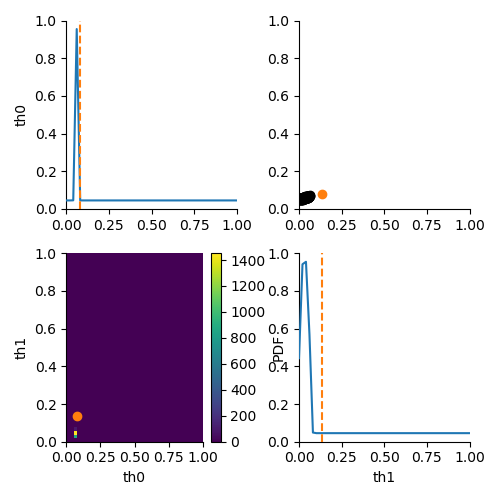
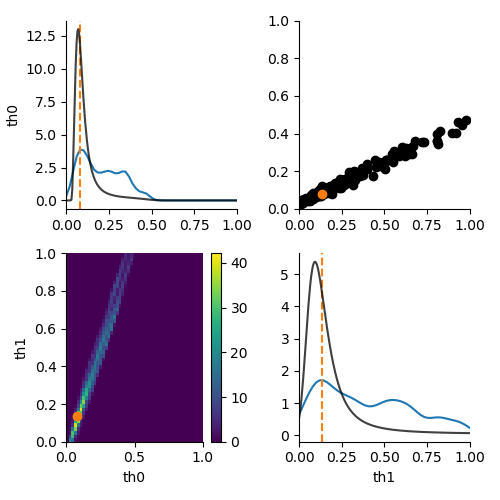
cr: also marg2 (viz can be improved)

diff --git a/conversion_reaction/models.py b/conversion_reaction/models.py
@@ -10,13 +10,13 @@ import scipy.integrate as integrate
 # VARIABLES
 
 # noise variance
-noise = 0.1
+noise = 0.2
 # gaussian error model
 noise_model = np.random.randn
 
 # prior
 prior_lb = 0
-prior_ub = 1
+prior_ub = 0.5
 prior = pyabc.Distribution(**{key: pyabc.RV('uniform', prior_lb, prior_ub - prior_lb)
                               for key in ['th0', 'th1']})
 
@@ -192,35 +192,47 @@ def pdf_true(p):
 
 # VISUALIZATION
 
+def for_plot_pdf_true():
+    for_plot_pdf_true_file = "for_plot_pdf_true.dat"
+    try:
+        xs_0, ys_0, xs_1, ys_1, zs = pickle.load(open(for_plot_pdf_true_file, 'rb'))
+    except Exception as e:
+        print(e)
+        n_mesh = 200
+        # th0
+        def marginal_0(th0):
+            return integrate.quad(lambda th1: pdf_true({'th0': th0, 'th1': th1}),
+                                  prior_lb, prior_ub)[0]
+        integral_0 = integrate.quad(marginal_0, prior_lb, prior_ub)[0]
+        xs_0 = np.linspace(prior_lb, prior_ub, n_mesh)
+        ys_0 = []
+        for x in xs_0:
+            ys_0.append(marginal_0(x) / integral_0)
+    
+        # th1
+        def marginal_1(th1):
+            return integrate.quad(lambda th0: pdf_true({'th0': th0, 'th1': th1}),
+                                  prior_lb, prior_ub)[0]
+        integral_1 = integrate.quad(marginal_1, prior_lb, prior_ub)[0]
+        xs_1 = np.linspace(prior_lb, prior_ub, n_mesh)
+        ys_1 = []
+        for x in xs_1:
+            ys_1.append(marginal_1(x) / integral_1)
+
+        # th0, th1
+        zs = np.zeros((n_mesh, n_mesh))
+        for i0, v0 in enumerate(xs_0):
+            for i1, v1 in enumerate(xs_1):
+                zs[i0, i1] = pdf_true({'th0': v0, 'th1': v1})
+
+        pickle.dump((xs_0, ys_0, xs_1, ys_1, zs), open(for_plot_pdf_true_file, 'wb'))
+
+    return xs_0, ys_0, xs_1, ys_1, zs
+
+
 def visualize(label, history, show_true=True):
     # compute true posterior
-    
-    n_mesh = 200
-    # th0
-    def marginal_0(th0):
-        return integrate.quad(lambda th1: pdf_true({'th0': th0, 'th1': th1}),
-                              prior_lb, prior_ub)[0]
-    integral_0 = integrate.quad(marginal_0, prior_lb, prior_ub)[0]
-    xs_0 = np.linspace(prior_lb, prior_ub, n_mesh)
-    ys_0 = []
-    for x in xs_0:
-        ys_0.append(marginal_0(x) / integral_0)
-    
-    # th1
-    def marginal_1(th1):
-        return integrate.quad(lambda th0: pdf_true({'th0': th0, 'th1': th1}),
-                              prior_lb, prior_ub)[0]
-    integral_1 = integrate.quad(marginal_1, prior_lb, prior_ub)[0]
-    xs_1 = np.linspace(prior_lb, prior_ub, n_mesh)
-    ys_1 = []
-    for x in xs_1:
-        ys_1.append(marginal_1(x) / integral_1)
-
-    # th0, th1
-    zs = np.zeros(n_mesh, n_mesh)
-    for i0, v0 in enumerate(xs_0):
-        for i1, v1 in enumerate(xs_1): 
-            zs[i0, i1] = pdf_true({'th0': v0, 'th1': v1})
+    xs_0, ys_0, xs_1, ys_1, zs = for_plot_pdf_true()
 
     # plot abc posteriors
     for t in range(history.max_t, history.max_t + 1):
@@ -233,7 +245,7 @@ def visualize(label, history, show_true=True):
     
         axes[0, 0].plot(xs_0, ys_0, '-', color='k', alpha=0.75)
         axes[1, 1].plot(xs_1, ys_1, '-', color='k', alpha=0.75)
-        axes[0, 1].contour(xs_0, xs_1, zs)
+        axes[1, 0].contour(xs_0, xs_1, zs.transpose(), colors='k')
         plt.savefig(label + "_kde_2d_" + str(t))
         plt.close()
 
@@ -249,5 +261,5 @@ distance = distance_l2
 pop_size = 200  # 500
 transition = pyabc.MultivariateNormalTransition()
 eps = pyabc.MedianEpsilon()
-max_nr_populations = 2  # 20
+max_nr_populations = 10  # 20
 sampler = pyabc.sampler.MulticoreEvalParallelSampler(n_procs=10)

diff --git a/conversion_reaction/test3.py b/conversion_reaction/test3.py
@@ -15,7 +15,7 @@ db_path = "sqlite:///db3.db"
 # ACCEPTOR
 
 distr = stats.multivariate_normal(np.zeros(n_timepoints), noise**2 * np.eye(n_timepoints))
-nr_pops = 10
+nr_pops = 20
 acceptor = pyabc.StochasticAcceptor(distribution=distr, nr_populations=nr_pops)
 acceptor.max_temp = 100
 
@@ -23,16 +23,16 @@ acceptor.max_temp = 100
 
 abc = pyabc.ABCSMC(models=model,
                    parameter_priors=prior,
-                   distance_function=distance,
+                   distance_function=distance_l2,
                    population_size=pop_size,
                    transitions=transition,
                    eps=eps,
                    acceptor=acceptor,
                    sampler=sampler)
 
-abc.new(db_path, get_y_meas())
-
-h = abc.run(minimum_epsilon=0, max_nr_populations=nr_pops)
+#abc.new(db_path, y_obs)
+#h = abc.run(minimum_epsilon=0, max_nr_populations=20)
+h = pyabc.History(db_path)
 
 # PERFORM ABC ANALYSIS WITH STOCHASTIC ACCEPTOR
 

diff --git a/conversion_reaction/test2.py b/conversion_reaction/test2.py
@@ -17,17 +17,17 @@ db_path = "sqlite:///db2.db"
 
 # PERFORM ABC ANALYSIS
 
-abc = pyabc.ABCSMC(models=model_random,
+abc = pyabc.ABCSMC(models=model,
                    parameter_priors=prior,
-                   distance_function=distance,
+                   distance_function=distance_l2,
                    population_size=pop_size,
                    transitions=transition,
                    eps=eps)
 
-abc.new(db_path, get_y_meas())
+abc.new(db_path, y_obs)
 
 h = abc.run(minimum_epsilon=0, max_nr_populations=max_nr_populations)
-
+h = pyabc.History(db_path)
 # PLOT
 
 visualize("test2", h)

diff --git a/conversion_reaction/test1.py b/conversion_reaction/test1.py
@@ -17,16 +17,17 @@ db_path = "sqlite:///db1.db"
 
 # PERFORM ABC ANALYSIS
 
-abc = pyabc.ABCSMC(models=model,
+abc = pyabc.ABCSMC(models=model_random,
                    parameter_priors=prior,
                    distance_function=distance,
                    population_size=pop_size,
                    transitions=transition,
                    eps=eps)
 
-abc.new(db_path, get_y_meas())
+#abc.new(db_path, y_obs)
 
-h = abc.run(minimum_epsilon=0, max_nr_populations=max_nr_populations)
+#h = abc.run(minimum_epsilon=0, max_nr_populations=max_nr_populations)
+h = pyabc.History(db_path)
 
 # PLOT
 

diff --git a/conversion_reaction/visualize_data.py b/conversion_reaction/visualize_data.py
@@ -1,0 +1,3 @@
+from models import *
+
+visualize_data(x(th_true))
